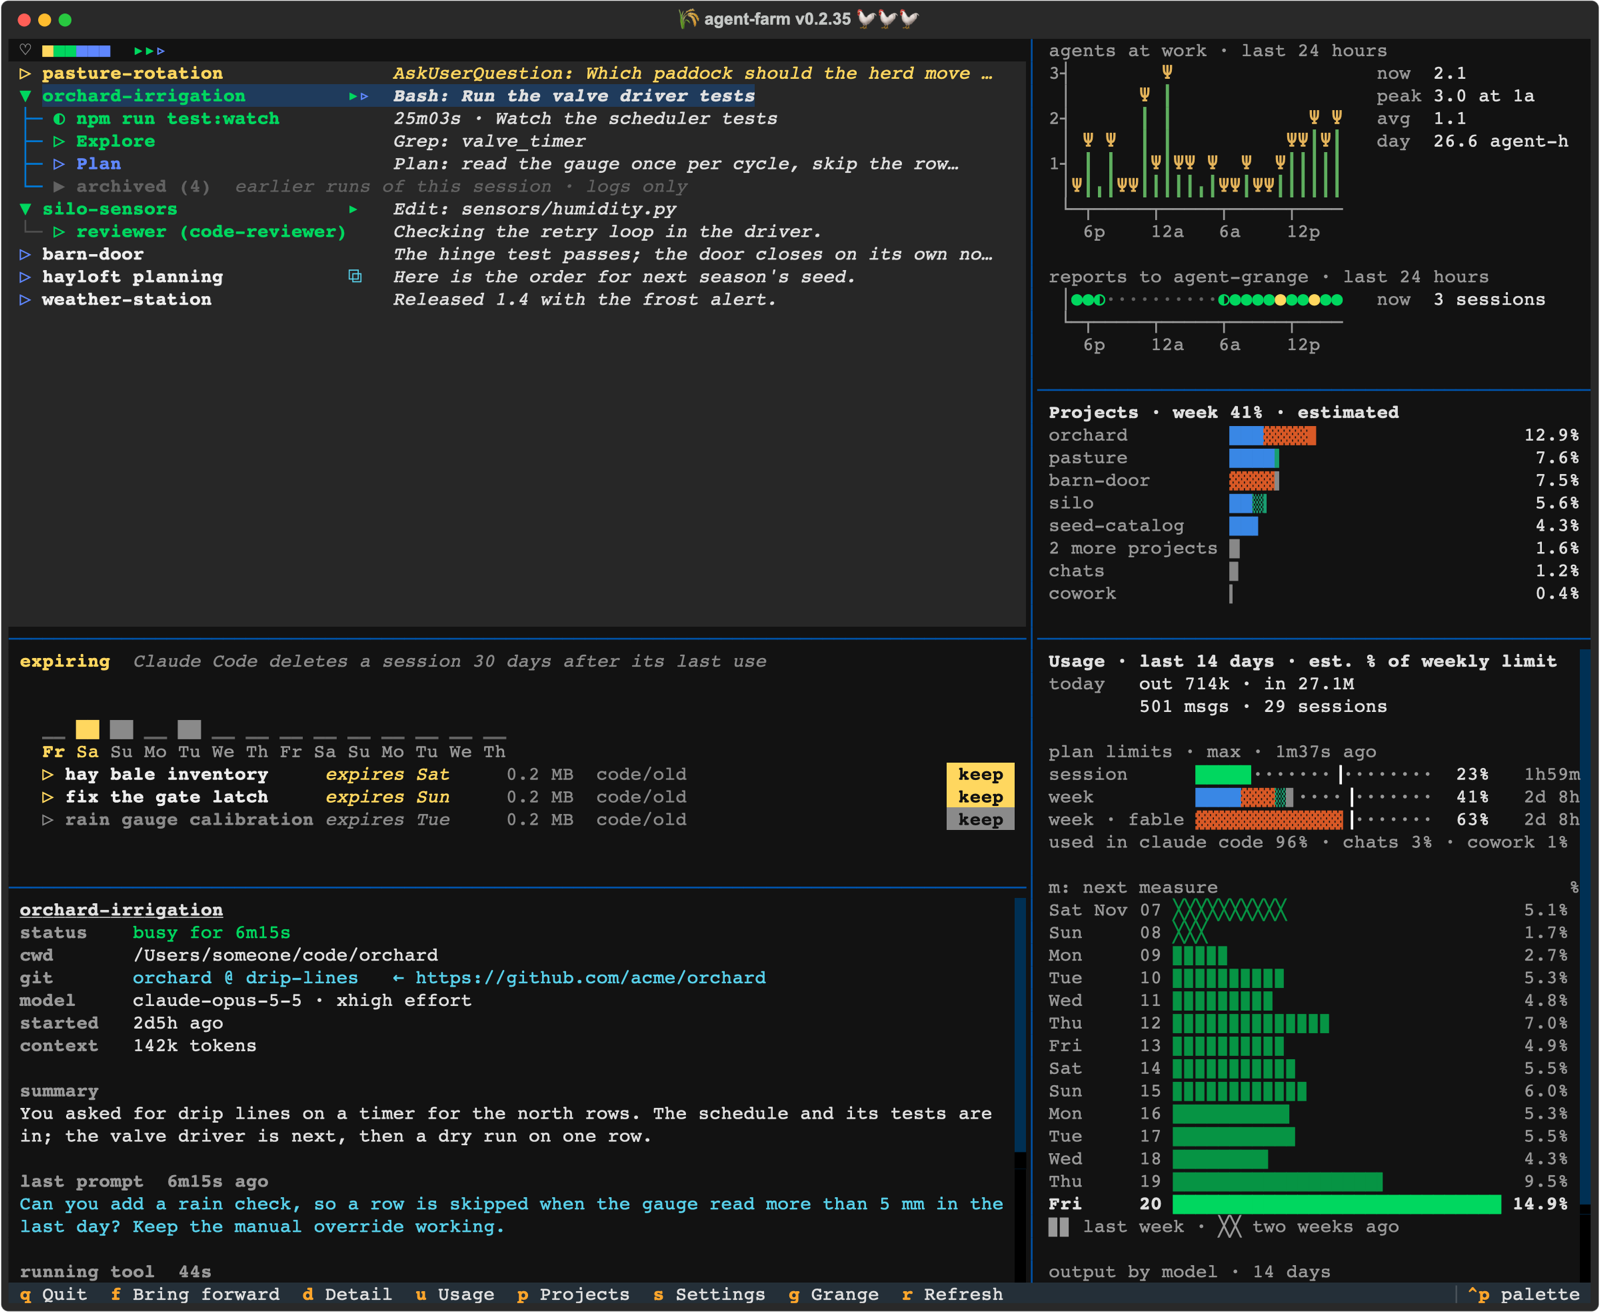
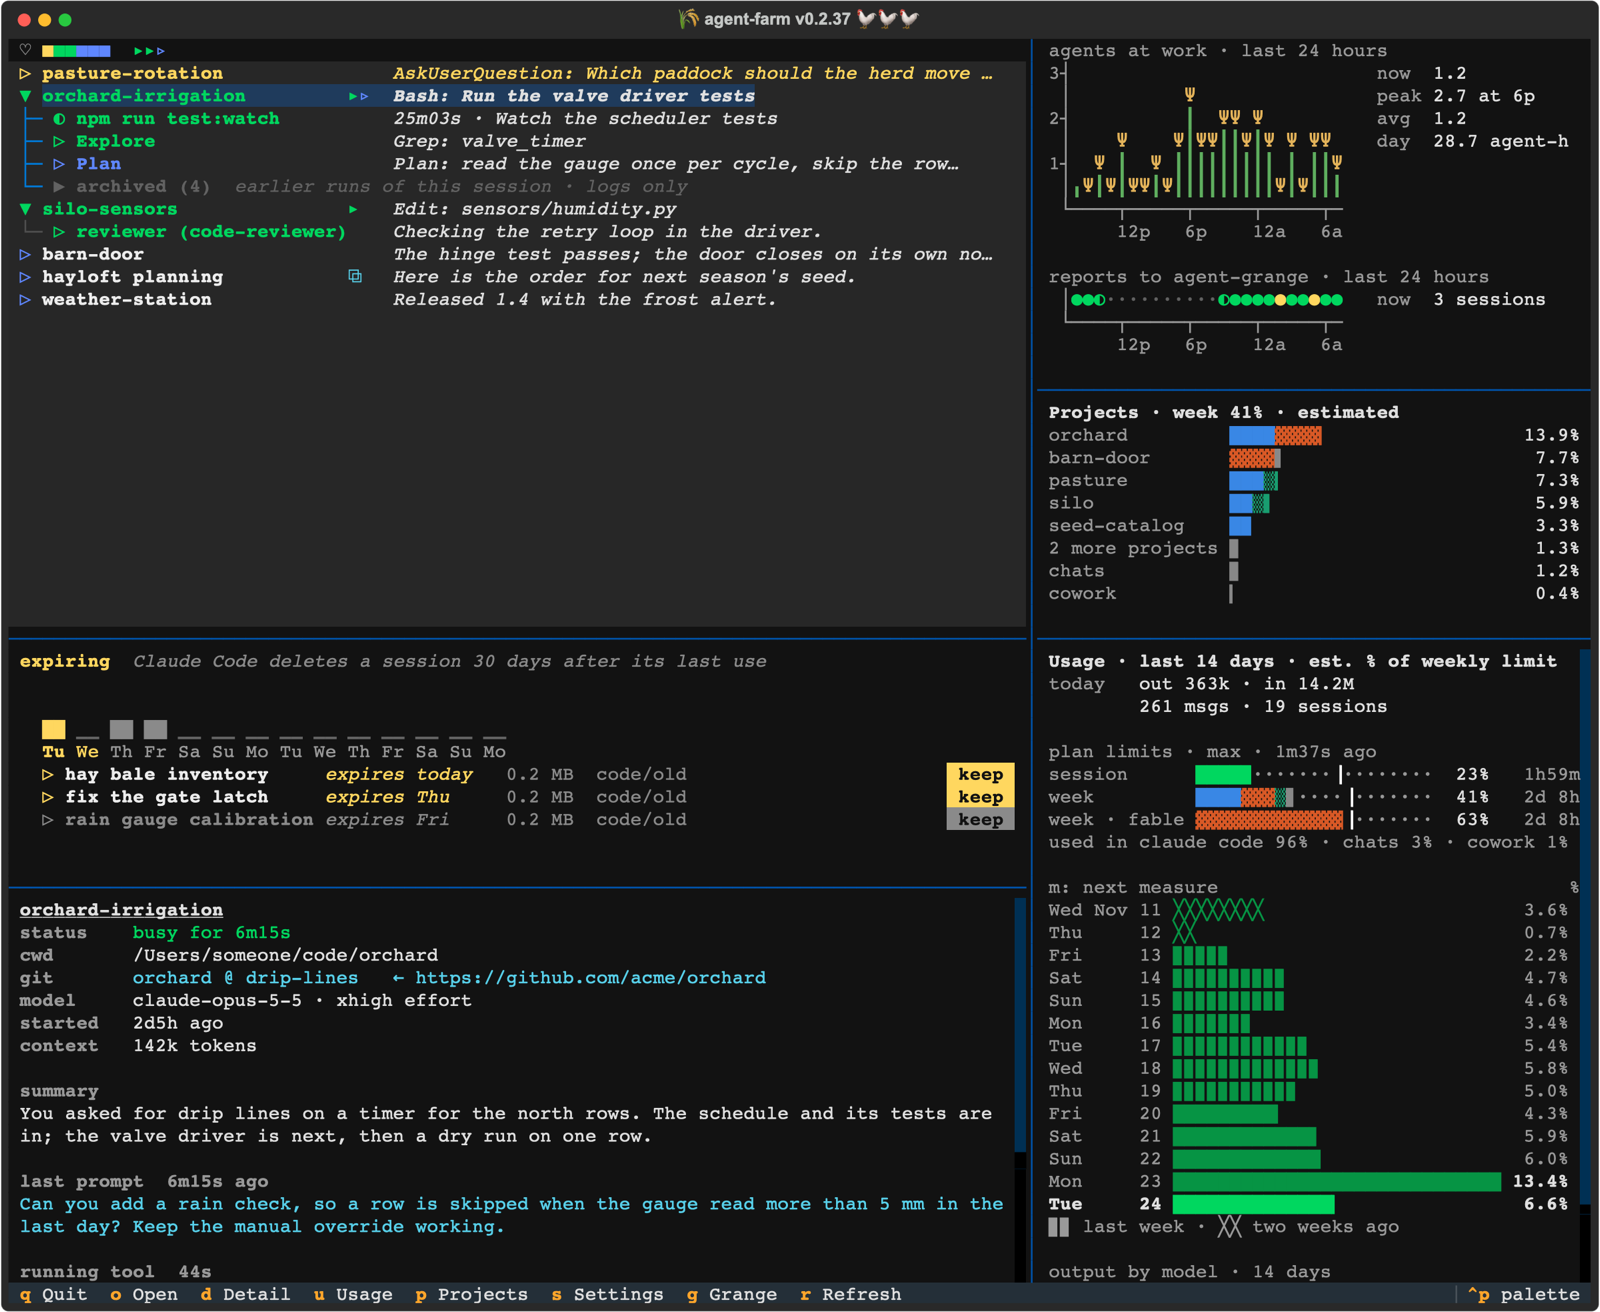
Change the "focus" key, "f" to be "o" for "open" to unify it with the other agent-* apps (#26)
* o opens a session, as in the other agent-* apps, where f used to

The key that brings a session forward (its iTerm2 tab, or the Claude
desktop app) was f, "Bring forward" in the footer. It is now o, "Open",
the key agent-frolic uses to open a pull request, so the agent-* apps
share it. f is no longer bound.

The fleet line's note when it2 is missing and its tooltip name o now,
and so does the README: the keys table, the opening paragraph, the
permissions note, the fleet line and the log section.

* README: screenshot with o Open in the key line

Drawn from the same made-up farm as before, so the key line along the
bottom shows o Open where it showed f Bring forward. Every session,
repo, folder, owner and plan number in it is invented, the pushes in the
run were answered by a stub, and the image carries no text metadata.

diff --git a/tests/test_focus_async.py b/tests/test_focus_async.py
@@ -1,4 +1,4 @@
-"""The f key talks to iTerm2, which can stall for seconds; that must happen off the
+"""The o key (open) talks to iTerm2, which can stall for seconds; that must happen off the
 thread that draws the screen, with the result posted back as a notification."""
 import asyncio
 import threading
@@ -24,7 +24,7 @@ def test_focus_runs_off_the_ui_thread_and_notifies():
         app.notify = lambda message, **kw: toasts.append(message)
         async with app.run_test(size=(120, 40)) as pilot:
             await pilot.pause(1.5)                      # a tick applies the one-row snapshot
-            await pilot.press("f")
+            await pilot.press("o")
             for _ in range(20):                          # the worker finishes within a moment
                 await pilot.pause(0.1)
                 if toasts:
@@ -34,3 +34,34 @@ def test_focus_runs_off_the_ui_thread_and_notifies():
     asyncio.run(go())
     assert calls == [(77, False)]                        # called once, not on the main thread
     assert toasts == ["focused orchard tab"]
+
+
+def test_o_opens_a_session_and_f_no_longer_does():
+    """o for open, as in the other agent-* apps (agent-frolic's o opens a pull request); the
+    footer says so, and f, the key it replaced, does nothing now."""
+    keys = {b.key: b for b in main.AgentFarm.BINDINGS}
+    assert keys["o"].action == "focus_tab" and keys["o"].description == "Open" and keys["o"].show
+    assert "f" not in keys
+    calls = []
+
+    async def go():
+        app = main.AgentFarm()
+        inst = Instance(pid=78, session_id="s78", name="pasture", alive=True, status="idle")
+        inst.iterm_session, inst.iterm_title = "DEF", "pasture tab"
+        app.collector.snapshot = lambda: [inst]
+        app.collector.focus_instance = lambda inst, label="": calls.append(inst.pid) or (True, "")
+        app.notify = lambda message, **kw: None
+        async with app.run_test(size=(120, 40)) as pilot:
+            await pilot.pause(1.5)
+            await pilot.press("f")
+            await pilot.pause(0.5)
+            assert calls == []
+            await pilot.press("o")
+            for _ in range(20):
+                await pilot.pause(0.1)
+                if calls:
+                    break
+            await pilot.press("q")
+
+    asyncio.run(go())
+    assert calls == [78]

diff --git a/main.py b/main.py
@@ -520,7 +520,7 @@ def fleet_line(instances: list[Instance], show_text: bool,
                  + (f"{shell} waiting on a shell · " if shell else "") + f"{running} agents running")
     if not it2_ok:
         t.append("  ")
-        t.append("it2 missing — focus (f) unavailable", style=RED)
+        t.append("it2 missing — open (o) unavailable", style=RED)
     if error_count:                      # recent problems only; the tooltip has the total
         t.append("  ")
         t.append(f"⚠ {error_count} (see the log)", style=RED)
@@ -558,7 +558,7 @@ def fleet_tooltip(instances: list[Instance], ordering: Ordering, error_count: in
     if grange_words:
         lines.append(f"agent-grange: {grange_words}")
     if not it2_ok:
-        lines.append("iTerm2's it2 CLI was not found, so the f key cannot focus tabs")
+        lines.append("iTerm2's it2 CLI was not found, so the o key cannot open tabs")
     if error_count:
         lines.append(f"{error_count} warning{'s' if error_count != 1 else ''} in the last {ERROR_WINDOW_S // 60} minutes "
                      f"({errors.count} since launch) — details in the log (Monitor ▸ Open Log Folder)")
@@ -1903,7 +1903,7 @@ class AgentFarm(App):
     """
     BINDINGS = [
         Binding("q", "quit", "Quit"),
-        Binding("f", "focus_tab", "Bring forward"),
+        Binding("o", "focus_tab", "Open"),         # o for open, as in the other agent-* apps
         Binding("d", "toggle_detail", "Detail"),
         Binding("u", "toggle_usage", "Usage"),
         Binding("p", "toggle_projects", "Projects"),

diff --git a/README.md b/README.md
@@ -15,7 +15,7 @@ Apple silicon · free and open source
 ### The agent that needs you is always on top
 
 Every session in iTerm2 and the Claude desktop app lands on one list, with whoever has waited
-longest first. Pick one, press `f`, and you're in its tab (this is surprisingly great). One
+longest first. Pick one, press `o`, and you're in its tab (this is surprisingly great). One
 🐓 per session in the title bar for any agent that's busy or waiting.
 
 ### The whole team at a glance
@@ -79,7 +79,7 @@ You may be asked for a few permissions along the way, all optional:
 - **Files and Folders** (Documents, Desktop and similar) lets agent-farm find the git
   repository of sessions working in those folders.
 - **iTerm2 access**, the first time agent-farm connects to it, lets agent-farm tell which
-  tab each session is in and lets `f` bring it forward.
+  tab each session is in and lets `o` open it.
 - **Keychain access**, only if you turn on plan limits. See [The usage panel](#the-usage-panel).
 
 ## The window
@@ -115,7 +115,7 @@ you.
 | enter / space | fold or unfold the row's subagents and shells |
 | tab | move between the tree and the expiring pane |
 | k | in the expiring pane: keep the selected session another 30 days |
-| f | bring that session forward: its iTerm2 tab, or the Claude desktop app |
+| o | open that session: bring its iTerm2 tab, or the Claude desktop app, forward |
 | d | show / hide the detail pane (it hides itself when the window is short) |
 | u | show / hide the usage graph |
 | p | show / hide the project graph (with both graphs hidden the right column closes) |
@@ -195,7 +195,7 @@ From left to right:
 - **The counts in words** (`6 sessions · 2 busy · 1 waiting · 3 agents running`), only with
   **Show status text in rows** on.
 - **Two red notes, only when something is wrong**: `it2 missing` when agent-farm has no way
-  to reach iTerm2 at all (the `f` key needs it), and `⚠ N` for warnings logged in the last
+  to reach iTerm2 at all (the `o` key needs it), and `⚠ N` for warnings logged in the last
   ten minutes.
 
 ### The detail pane
@@ -453,7 +453,7 @@ are kept for this, in `grange-history.json` beside the settings file, and only f
 | log | `~/Library/Logs/agent-farm/agent-farm.log` |
 
 Errors stay in the log. On screen there is only the fleet line's `⚠ N` badge, and a short
-note when `f` fails. **Monitor ▸ Open Log Folder** opens the folder holding the log, which
+note when `o` fails. **Monitor ▸ Open Log Folder** opens the folder holding the log, which
 records failed focus attempts and why, unreadable registry files, malformed transcript rows
 and any crash. If the monitor inside the window ever stops, the window says so and
 **Monitor ▸ Restart Monitor** (⌘R) starts it again.
